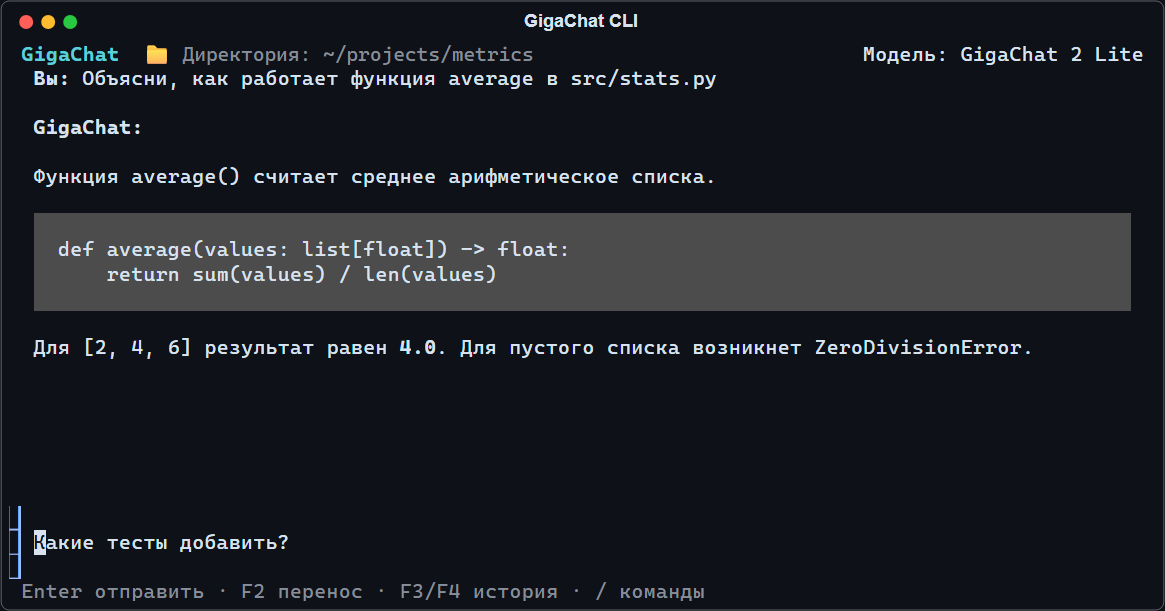
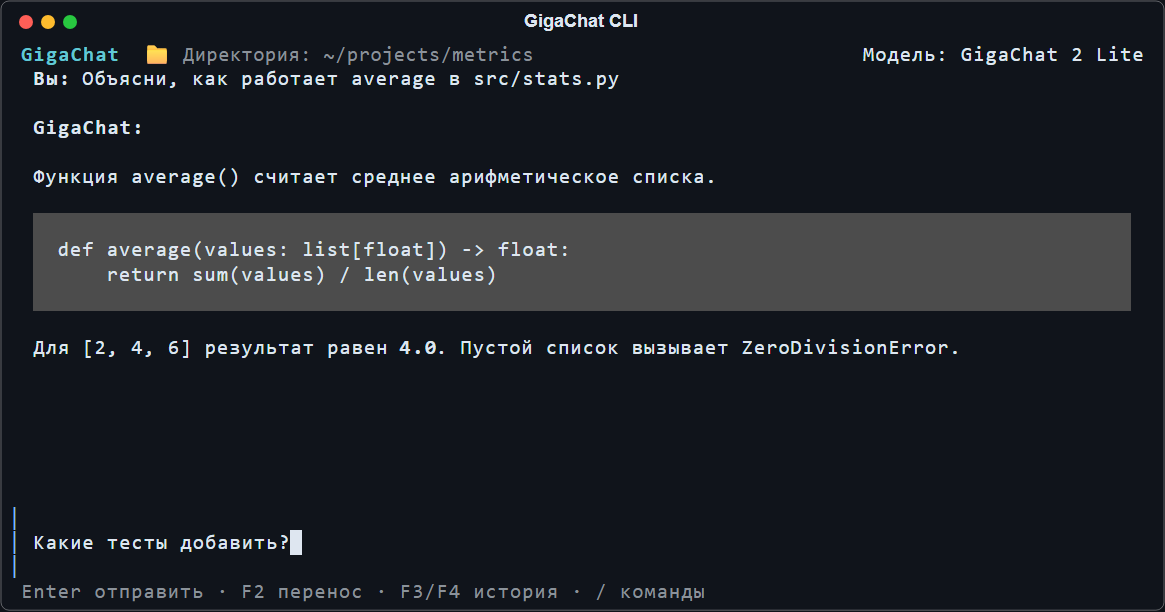
FIX: упростить границы ввода и предпросмотра правки
Заменить широкие границы тонкими линиями и обновить снимки интерфейса.

diff --git a/src/gigachat_cli/styles/chat.css b/src/gigachat_cli/styles/chat.css
@@ -52,7 +52,7 @@
 
 #message_input {
   border: none;
-  border-left: tall $border-blurred;
+  border-left: solid $border-blurred;
   background: $background;
   padding: 1 1;
   height: 3;
@@ -71,7 +71,7 @@
 }
 
 #message_input:focus {
-  border-left: tall $border;
+  border-left: solid $border;
 }
 
 .hidden {
@@ -81,5 +81,5 @@
 #message_input:disabled {
     background: $background;
     color: $foreground;
-    border-left: tall $border-blurred;
+    border-left: solid $border-blurred;
 }

diff --git a/src/gigachat_cli/styles/file_review.css b/src/gigachat_cli/styles/file_review.css
@@ -15,12 +15,12 @@ FileReview {
 #diff_scroll {
     height: auto;
     max-height: 8;
-    border-left: tall $border-blurred;
+    border-left: solid $border-blurred;
     padding: 0 1;
 }
 
 #diff_scroll:focus {
-    border-left: tall $secondary;
+    border-left: solid $secondary;
 }
 
 #review_actions {
